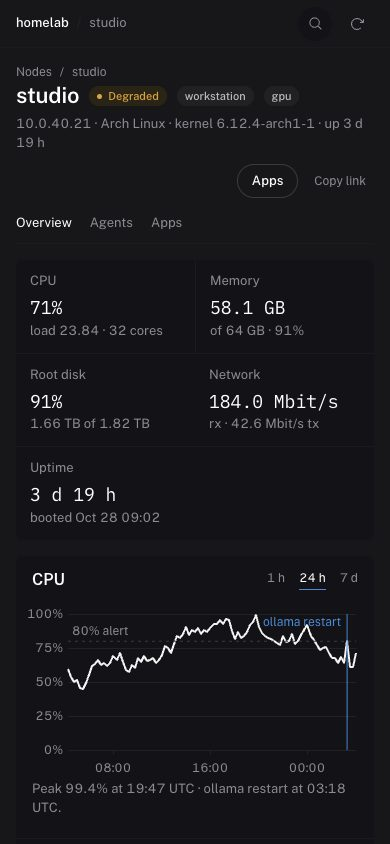
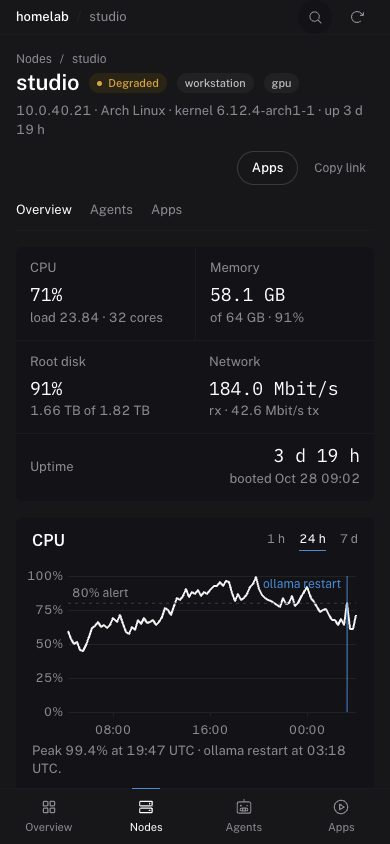
fix: keep the phone bottom bar inside the visual viewport
- phone shell is a 100dvh flex column: the page itself no longer scrolls, the
  main column does, and the bottom bar is an in-flow flex child instead of a
  fixed element that iOS clips below the visual viewport
- full-width KPI cells at 640px and under use label-left / value-right, keeping
  the two-column grid for the other cells
- Playwright: assert the bar's top and bottom sit inside visualViewport at the
  top and at the end of the long node page (phone projects only)
- regenerate the affected screenshots and the M0 report's test count

diff --git a/web/e2e/app.spec.ts b/web/e2e/app.spec.ts
@@ -72,6 +72,44 @@ test.describe('shell', () => {
     }
   });
 
+  test('the bottom bar stays inside the visual viewport on a long node page', async ({ page, viewport }) => {
+    test.skip((viewport?.width ?? 1440) >= 641, 'phone only');
+    await page.goto('/nodes/studio');
+    const bar = page.locator('.bottom-bar');
+    await expect(bar).toBeVisible();
+    await expect(page.getByRole('heading', { level: 1, name: 'studio' })).toBeVisible();
+    await expect(page.locator('.kpi-row')).toBeVisible();
+
+    const measure = () =>
+      page.evaluate(() => {
+        const rect = document.querySelector('.bottom-bar')!.getBoundingClientRect();
+        const vv = window.visualViewport;
+        return {
+          top: rect.top,
+          bottom: rect.bottom,
+          height: rect.height,
+          viewportTop: vv ? vv.offsetTop : 0,
+          viewportHeight: vv ? vv.height : window.innerHeight,
+        };
+      });
+
+    const scrollHeight = await page
+      .locator('.main')
+      .evaluate((el) => el.scrollHeight);
+    expect(scrollHeight).toBeGreaterThan((viewport?.height ?? 700) * 1.5);
+
+    const atTop = await measure();
+    expect(atTop.bottom).toBeLessThanOrEqual(atTop.viewportTop + atTop.viewportHeight + 0.5);
+    expect(atTop.top).toBeGreaterThanOrEqual(atTop.viewportTop - 0.5);
+    expect(atTop.height).toBeGreaterThanOrEqual(56);
+
+    await page.locator('.main').evaluate((el) => el.scrollTo(0, el.scrollHeight));
+    const atBottom = await measure();
+    expect(atBottom.bottom).toBeLessThanOrEqual(atBottom.viewportTop + atBottom.viewportHeight + 0.5);
+    expect(atBottom.top).toBeGreaterThanOrEqual(atBottom.viewportTop - 0.5);
+    expect(atBottom.height).toBeGreaterThanOrEqual(56);
+  });
+
   test('offline names the last snapshot', async ({ page, context }) => {
     await page.goto('/');
     await expect(page.locator('.page-title')).toBeVisible();

diff --git a/web/src/styles/app.css b/web/src/styles/app.css
@@ -1505,9 +1505,23 @@
   .rail {
     display: none;
   }
+  /* 100dvh flex shell: the page itself does not scroll, so the bottom bar is a
+     flex child at the visual viewport's bottom instead of a fixed element that
+     iOS clips below the visible area. */
+  .shell {
+    display: flex;
+    flex-direction: column;
+    height: 100dvh;
+    min-height: 0;
+    overflow: hidden;
+  }
   .main {
+    flex: 1 1 auto;
+    min-height: 0;
     margin-left: 0;
-    padding-bottom: calc(64px + env(safe-area-inset-bottom, 0px));
+    overflow-y: auto;
+    overscroll-behavior-y: contain;
+    -webkit-overflow-scrolling: touch;
   }
   .topbar {
     height: 48px;
@@ -1561,6 +1575,28 @@
   }
   .kpi-row[data-count="5"] .kpi-cell:last-child {
     grid-column: 1 / -1;
+    display: grid;
+    grid-template-columns: minmax(0, 1fr) auto;
+    grid-template-rows: auto auto;
+    column-gap: 16px;
+    align-items: baseline;
+  }
+  .kpi-row[data-count="5"] .kpi-cell:last-child .kpi-label {
+    grid-column: 1;
+    grid-row: 1 / span 2;
+    align-self: center;
+  }
+  .kpi-row[data-count="5"] .kpi-cell:last-child .kpi-value {
+    grid-column: 2;
+    grid-row: 1;
+    justify-self: end;
+    margin-top: 0;
+  }
+  .kpi-row[data-count="5"] .kpi-cell:last-child .kpi-sub {
+    grid-column: 2;
+    grid-row: 2;
+    justify-self: end;
+    text-align: right;
   }
   .kpi-row[data-count="4"] .kpi-cell:nth-child(3) {
     border-left: 0;
@@ -1653,11 +1689,8 @@
     height: 180px;
   }
   .bottom-bar {
-    position: fixed;
-    left: 0;
-    right: 0;
-    bottom: 0;
-    z-index: 40;
+    position: static;
+    flex: none;
     height: calc(56px + env(safe-area-inset-bottom, 0px));
     padding-bottom: env(safe-area-inset-bottom, 0px);
     display: grid;

diff --git a/web/src/components/AppShell.tsx b/web/src/components/AppShell.tsx
@@ -1,4 +1,4 @@
-import { useEffect, useState } from 'react';
+import { useEffect, useRef, useState } from 'react';
 import { ArrowClockwise, HardDrives, Info, MagnifyingGlass, PlayCircle, Robot, SquaresFour } from '@phosphor-icons/react';
 import * as Tooltip from '@radix-ui/react-tooltip';
 import { Link, Outlet, useLocation } from 'react-router-dom';
@@ -117,6 +117,7 @@ export function AppShell() {
   const [paletteOpen, setPaletteOpen] = useState(false);
   const location = useLocation();
   const fleet = useFleet();
+  const mainRef = useRef<HTMLDivElement>(null);
 
   useEffect(() => {
     const onKey = (event: KeyboardEvent) => {
@@ -130,7 +131,10 @@ export function AppShell() {
   }, []);
 
   useEffect(() => {
+    // desktop scrolls the window, the phone scrolls the main column inside the
+    // 100dvh shell; both start a new route at the top.
     window.scrollTo({ top: 0 });
+    mainRef.current?.scrollTo({ top: 0 });
   }, [location.pathname]);
 
   return (
@@ -164,7 +168,7 @@ export function AppShell() {
             </span>
           </div>
         </nav>
-        <div className="main">
+        <div className="main" ref={mainRef}>
           <TopBar onSearch={() => setPaletteOpen(true)} />
           <main className="content">
             {fleet.data ? (

diff --git a/docs/reports/M0.md b/docs/reports/M0.md
@@ -119,10 +119,11 @@ no agent to execute anything until M1.
 
 - `go vet ./...`, `go test ./...` — pass.
 - `cd web && npm ci && npm run lint && npm test && npm run build` — pass.
-- `cd web && npx playwright test` — 36 tests across desktop, iPad, iPhone
-  (WebKit) and Pixel (Chromium): horizon → node routing and back, finding text,
-  ⌘K palette, action result, dangerous-action confirmation, bottom bar, offline
-  banner, manifest/service worker.
+- `cd web && npx playwright test` — 38 passed, 2 skipped across desktop, iPad,
+  iPhone (WebKit) and Pixel (Chromium): horizon → node routing and back, finding
+  text, ⌘K palette, action result, dangerous-action confirmation, bottom bar,
+  the bottom bar inside the visual viewport on a long node page (phone only),
+  offline banner, manifest/service worker.
 - `lint.mjs --app web/src` — 0 FAIL, 3 WARN categories defended above.
 - `inspect.mjs --app` on the seven screens above — 0 FAIL at 1440/768/390.
 
@@ -136,7 +137,8 @@ docs/screenshots/m0/agents/
 docs/screenshots/m0/apps/
 docs/screenshots/m0/scoped-agents/   /nodes/studio/agents
 docs/screenshots/m0/scoped-apps/     /nodes/studio/apps
-docs/screenshots/m0/states/          dialogs, offline node, filtered list, palette, phone
+docs/screenshots/m0/states/          dialogs, offline node, filtered list,
+                                     palette, phone folds and full phone pages
 ```
 
 All screenshots use the fixture data above.
